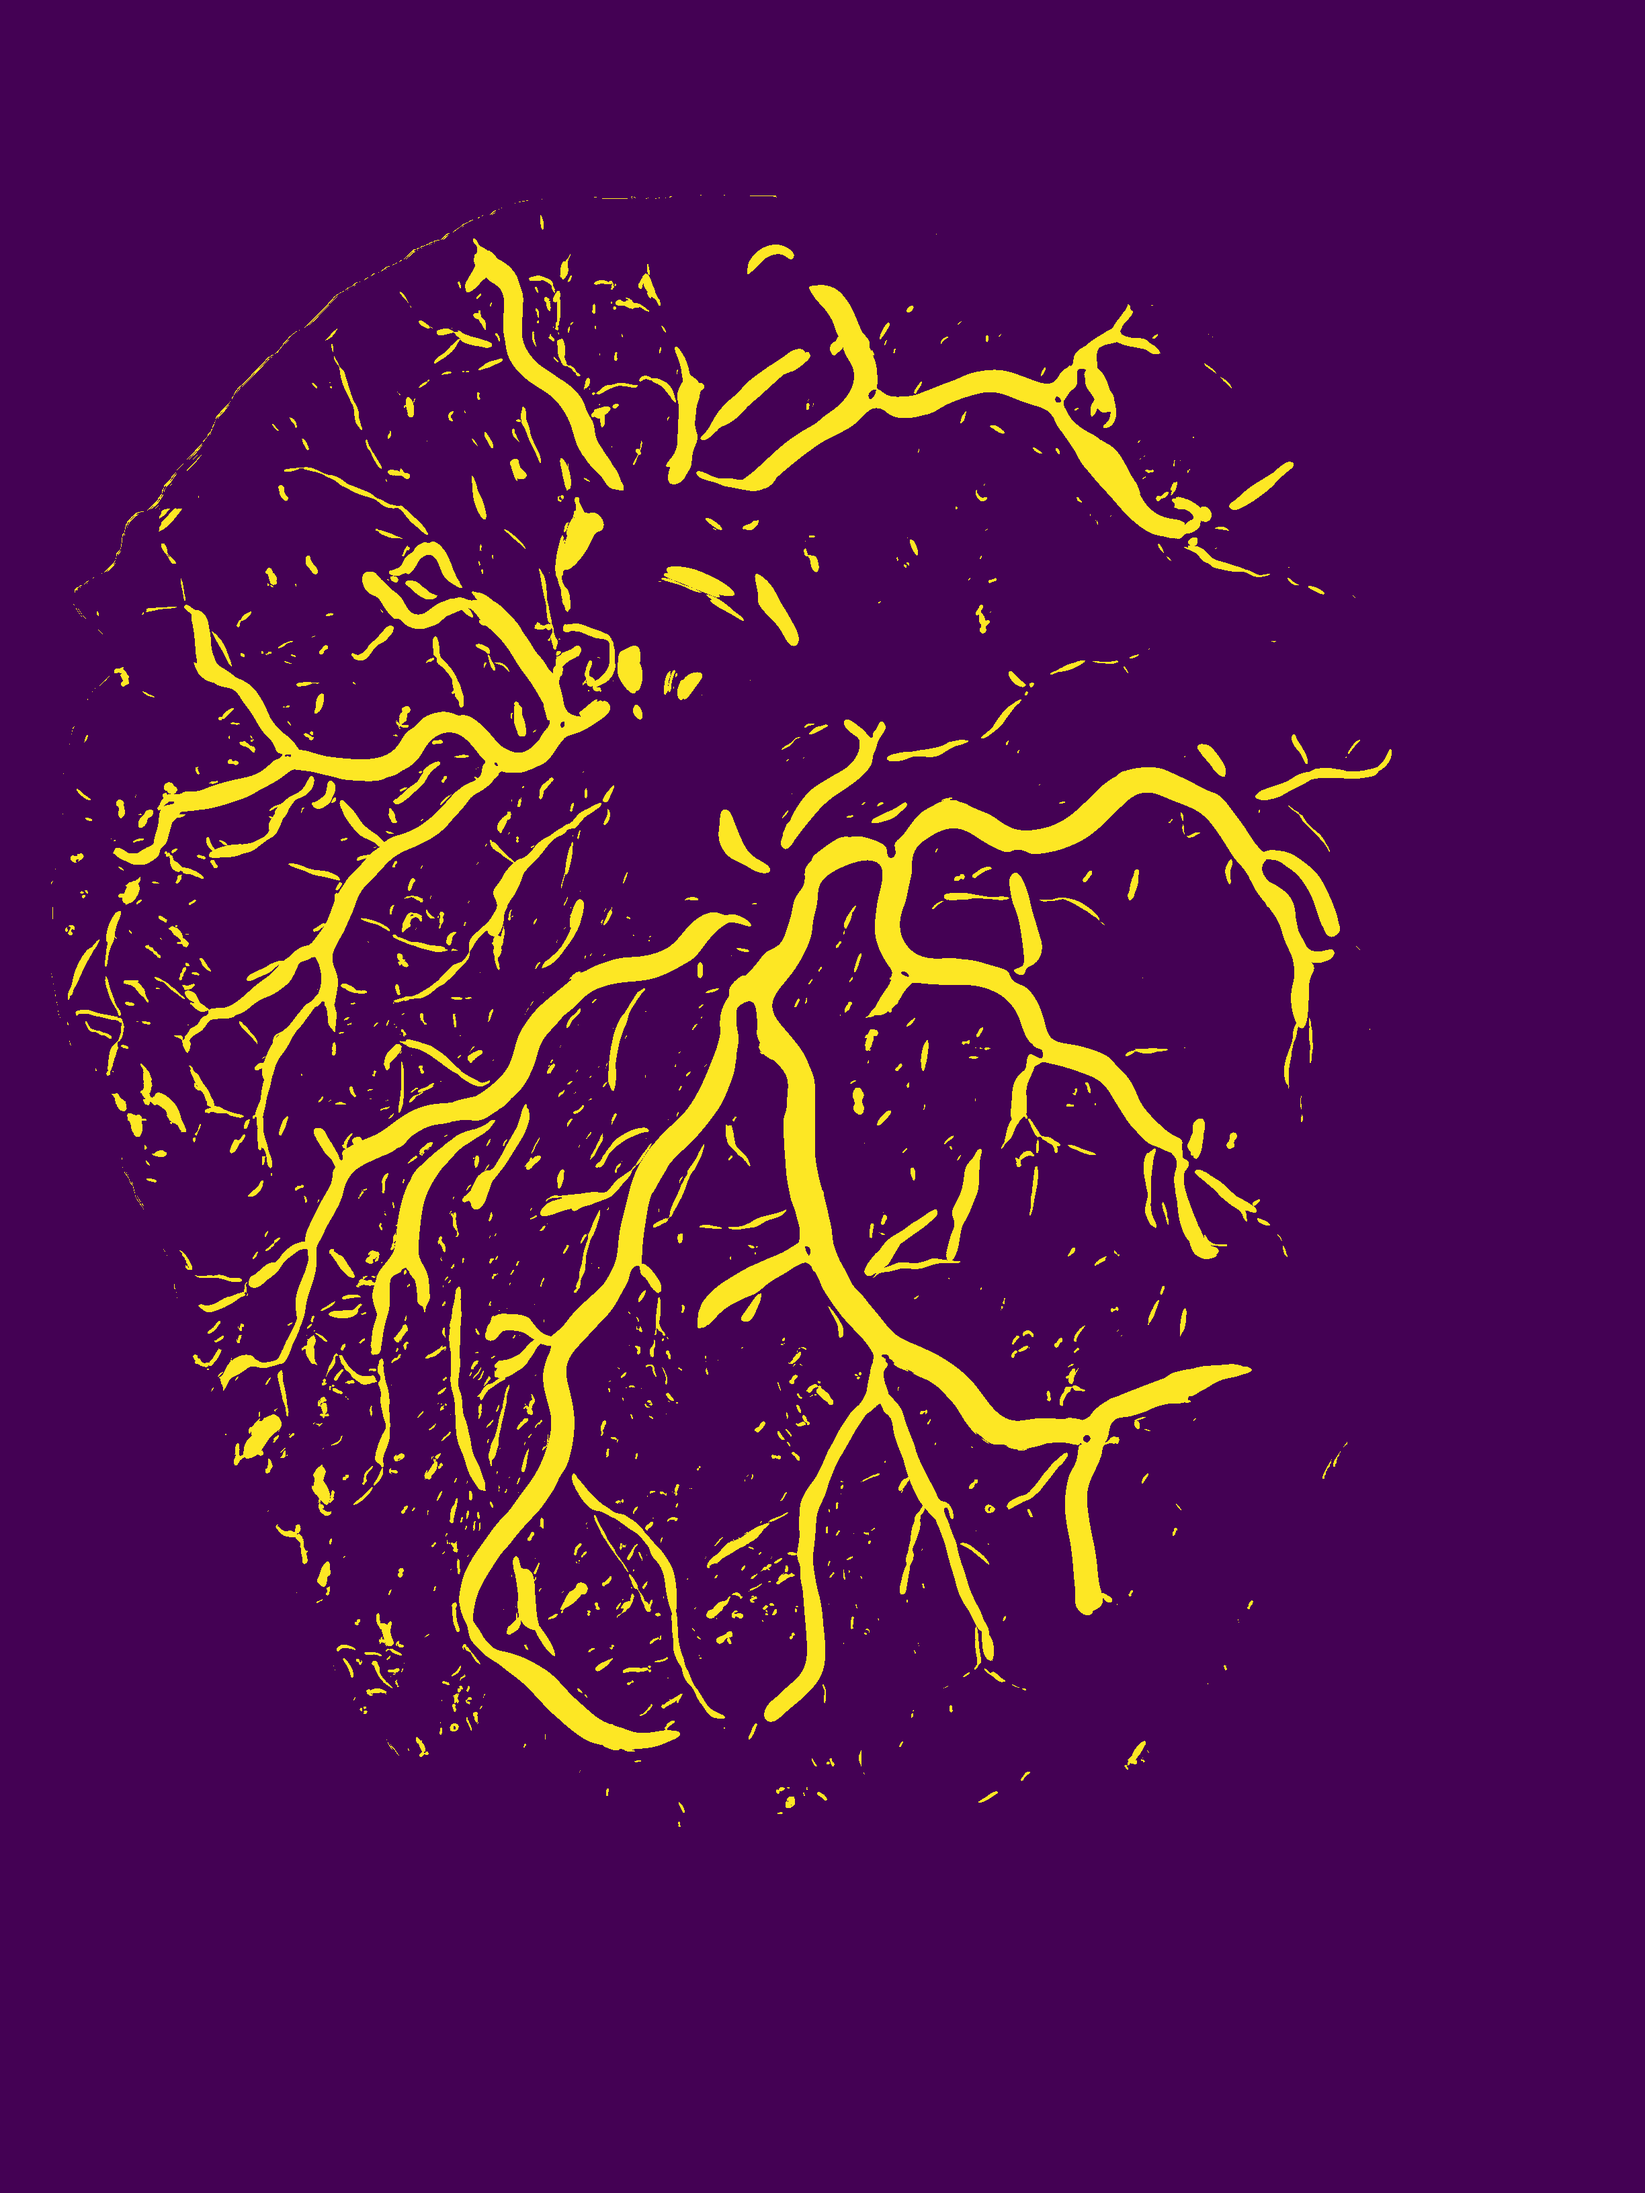
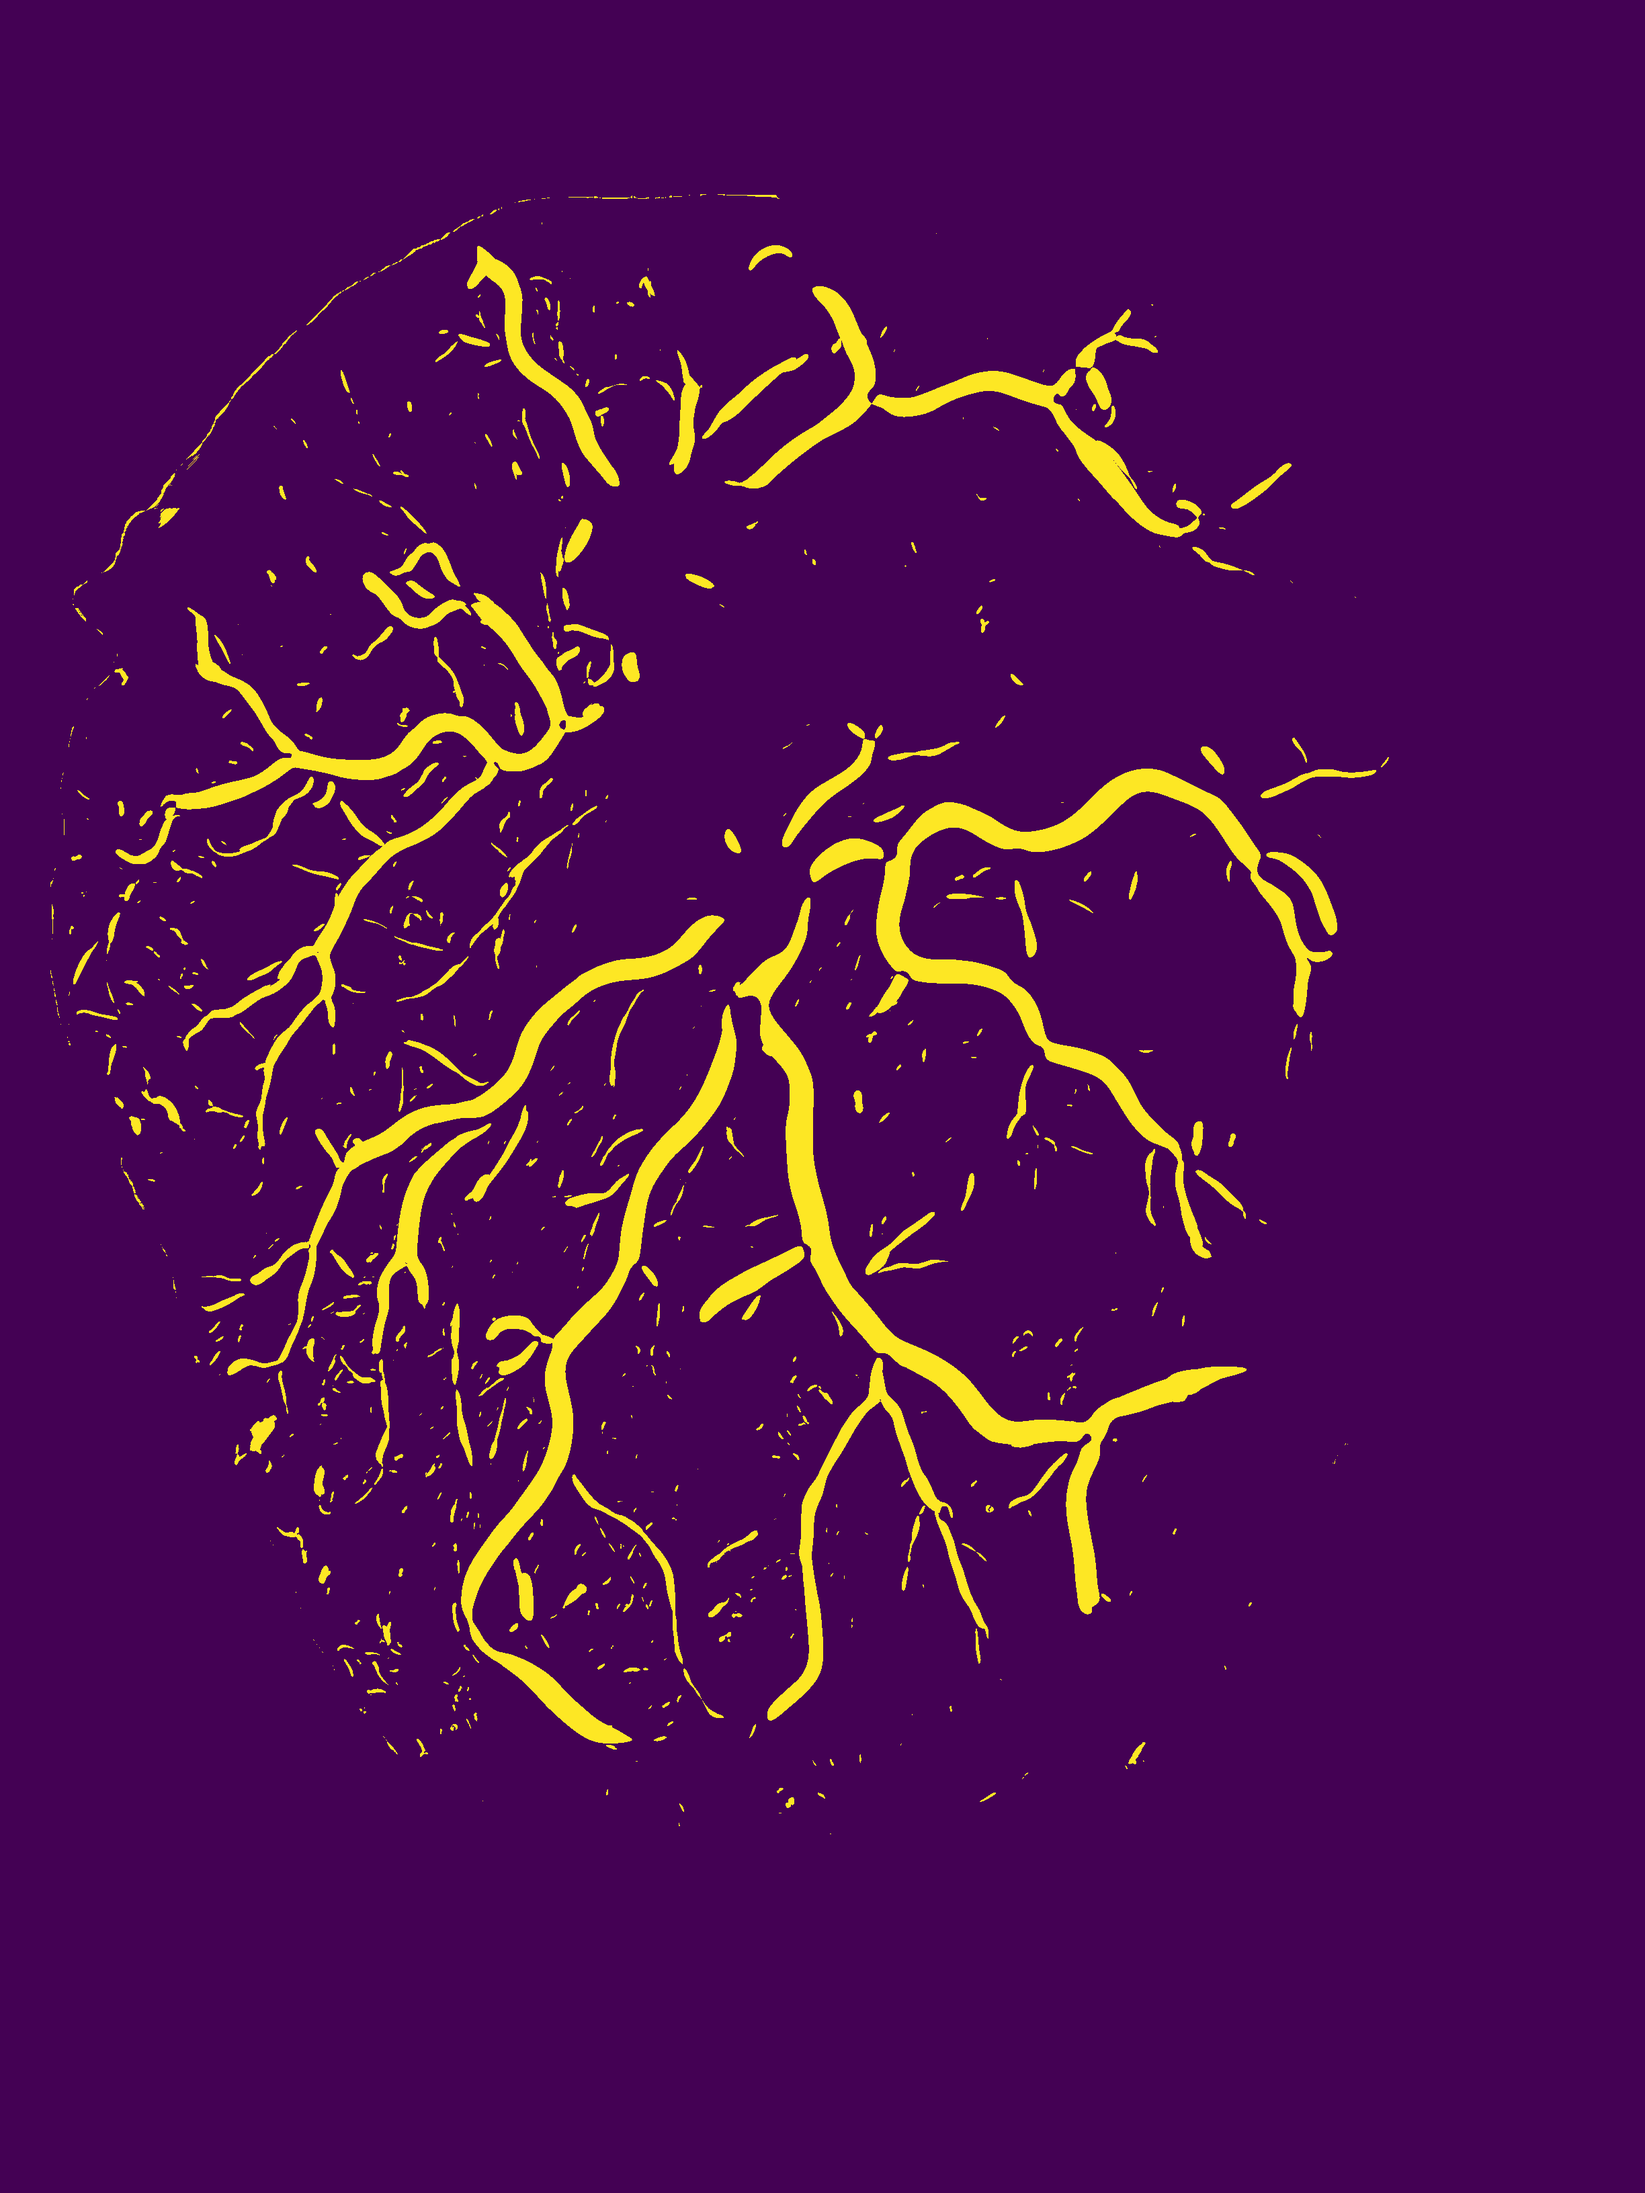
try clahe sample; get rid of trim_first and minor cleanup

diff --git a/pcsvn.py b/pcsvn.py
@@ -16,7 +16,7 @@ from skimage.segmentation import find_boundaries
 from plate_morphology import dilate_boundary, erode_plate
 
 def make_multiscale(img, scales, betas, gammas, find_principal_directions=False,
-                    dark_bg=True, VERBOSE=True, trim_first=False):
+                    dark_bg=True, VERBOSE=True):
     """returns an ordered list of dictionaries for each scale
     multiscale.append(
         {'sigma': sigma,
@@ -153,24 +153,24 @@ def match_on_skeleton(skeleton_of, layers, VERBOSE=True):
 
 ###Static Parameters############################
 
-# main vesselness threshold
-
-alpha = 0.3
+pass
 
 ###Set base image#############################
 
-filename = 'barium1.png'; DARK_BG = True
+#filename = 'barium1.png'; DARK_BG = True
 #filename = 'barium2.png'; DARK_BG = True
 #filename = 'NYMH_ID130016i.png'; DARK_BG = True
 #filename = 'NYMH_ID130016u.png'; DARK_BG = False
 #filename = 'NYMH_ID130016u_inset.png'; DARK_BG = False
-#filename =  'im0059.png'; DARK_BG = False # set alpha much smaller, like .1
+#filename = 'im0059.png'; DARK_BG = False # set alpha much smaller, like .1
+filename = 'im0059_clahe.png'; DARK_BG = False
 
 raw_img = get_named_placenta(filename, maskfile=None)
 
+
+###Multiscale & Frangi Parameters######################
 ###Do preprocessing (e.g. clahe)###############
 
-EARLY_TRIM=False
 
 print('Note: no preprocessing is done anymore.')
 img =  raw_img
@@ -179,15 +179,19 @@ bg_mask = img.mask
 ###Set Parameter(s) for Frangi#################
 
 # set range of sigmas to use (declare these above)
-# the
-log_min = 1 # minimum scale is 2**log_min
-log_max = 4.5 # maximum scale is 2**log_max
-scales = np.logspace(log_min, log_max, num=10, base=2)
 
+log_min = -1 # minimum scale is 2**log_min
+log_max = 3. # maximum scale is 2**log_max
+scales = np.logspace(log_min, log_max, num=20, base=2)
+
+
+# threshold for vesselness measure
+
+alpha = 0.08
 
 # set betas (anisotropy parameters)
 # 0.5 is frangi's recommendation... i think
-betas = [0.6 for s in scales]
+betas = [0.5 for s in scales]
 
 # set gammas (structness parameter)
 # declare None here to calculate half of hessian's norm
@@ -207,26 +211,25 @@ print("gammas will be calculated as half of hessian norm")
 
 multiscale = make_multiscale(img, scales, betas, gammas,
                              find_principal_directions=False,
-                             dark_bg=DARK_BG,
-                             trim_first=EARLY_TRIM)
+                             dark_bg=DARK_BG)
 
 #with open('barium2_multiscale_171024.pkl', 'rb') as f:
     #multiscale = pickle.load(f)
 
 # Process Multiscale Targets
 
+
 # fix targets misreported on edge of plate
 # wait are we doing this twice?
-if not EARLY_TRIM:
-    print('trimming collars of plates (per scale)')
+print('trimming collars of plates (per scale)')
 
-    for i in range(len(multiscale)):
-        f = multiscale[i]['F']
-        # twice the buffer (be conservative!)
-        radius = int(multiscale[i]['sigma']*2)
-        print('dilating plate for radius={}'.format(radius))
-        f = dilate_boundary(f, radius=radius, mask=img.mask)
-        multiscale[i]['F'] = f.filled(0)
+for i in range(len(multiscale)):
+    f = multiscale[i]['F']
+    # twice the buffer (be conservative!)
+    radius = int(multiscale[i]['sigma']*2)
+    print('dilating plate for radius={}'.format(radius))
+    f = dilate_boundary(f, radius=radius, mask=img.mask)
+    multiscale[i]['F'] = f.filled(0)
 
 
 # Extract Multiscale Features
@@ -245,24 +248,24 @@ F_max = ma.masked_array(F_max, mask=img.mask)
 # is the frangi vesselness measure strong enough
 F_cumulative = (F_max > alpha)
 
-# where there's any match at all (LOOK INTO THIS)
-#matched_all = match_on_skeleton(F_cumulative, F_all)
 
 # Process Composite ###############################3
 # make this a function
 
-# assign an index (later color) for where each max was found
-#wheres = F_all.argmax(axis=-1)
 
 #wheres += 1
 
+# where there's any match at all
+# (deprecated, doesn't change much and takes forever)
+#matched_all = match_on_skeleton(F_cumulative, F_all)
 #wheres[np.invert(matched_all)] = 0 # first label is stuff that didn't match
-#wheres[F_max < alpha] = 0 # or that didn't pass the threshold
 
-# same thing w/o skeleton matching
+
+# assign a label for where each max was found
 wheres = F_all.argmax(axis=-1)
-wheres += 1
+wheres += 1 # zero where no match
 wheres[F_max < alpha] = 0
+
 
 # Make Connected Graph
 
@@ -332,5 +335,6 @@ if __name__ == "__main__":
     ax.set_title(r"scale ($\sigma$) of matched targets")
 
     plt.savefig(outname('labeled'), dpi=300)
+
     # list of each scale's frangi targets for easier introspection
     Fs = [F_all[:,:,j] for j in range(F_all.shape[-1])]
